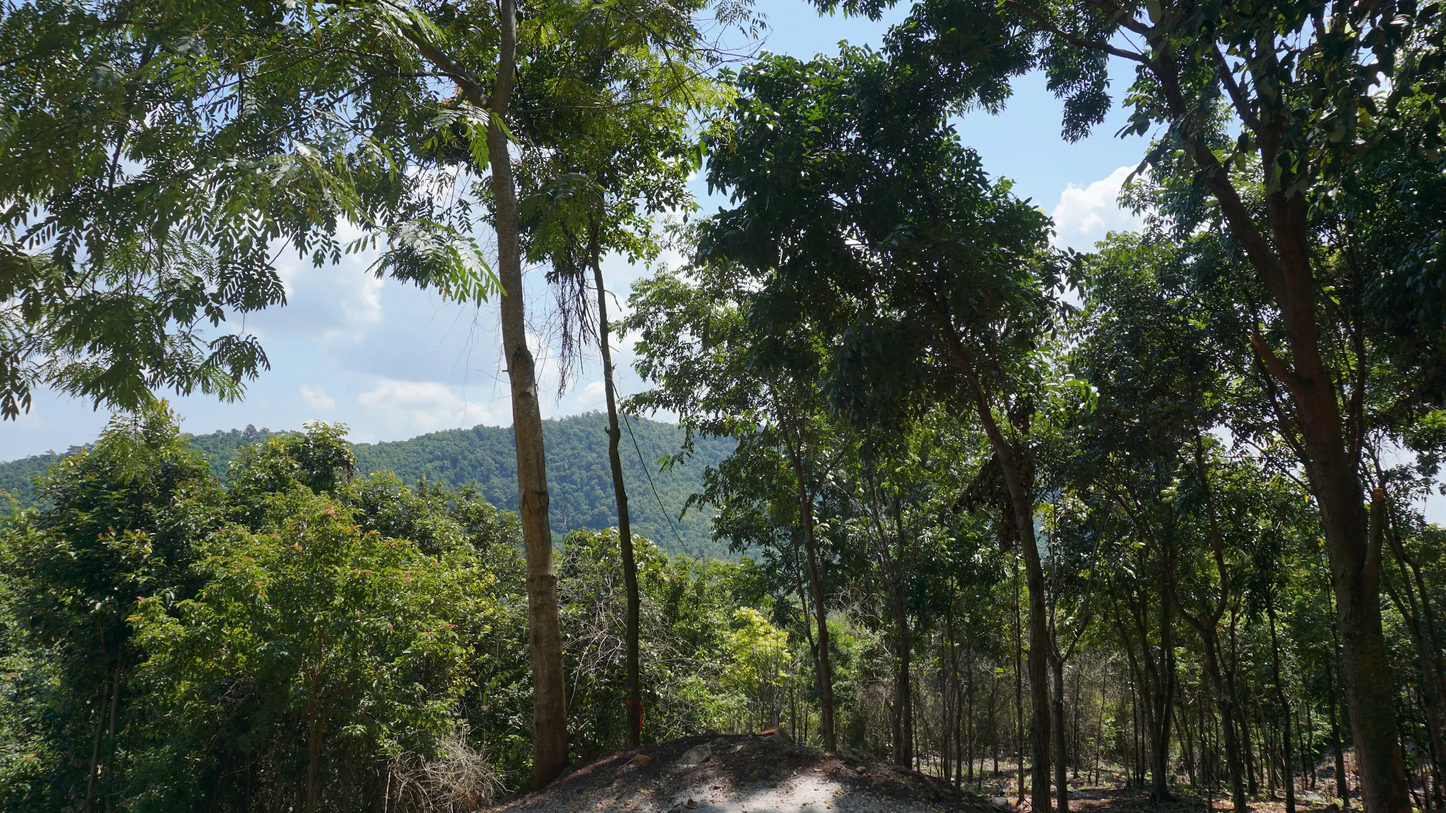
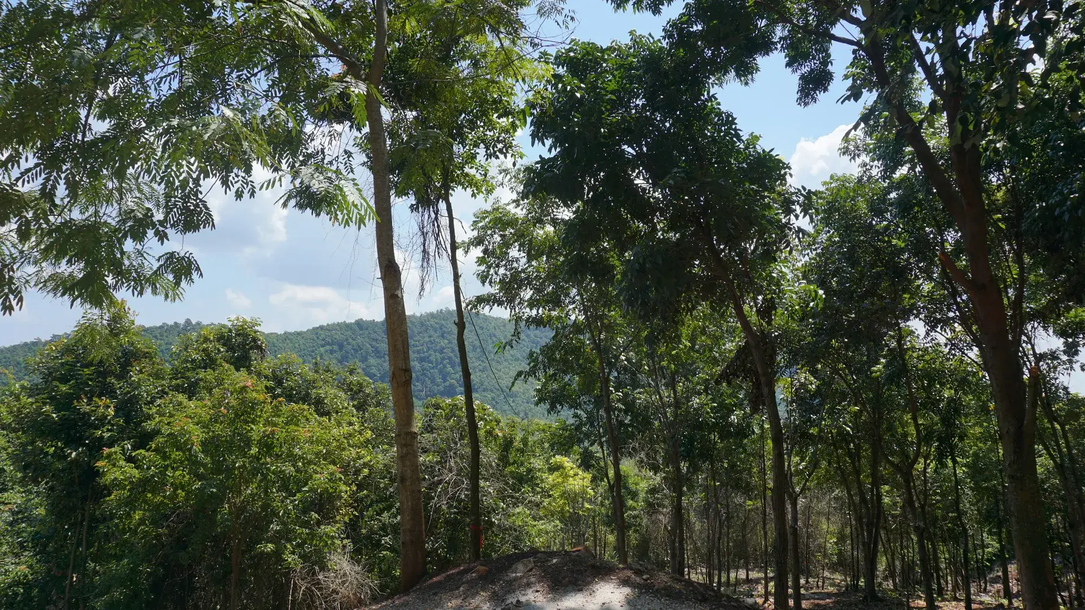
perbaikan performa

diff --git a/components/BackgroundSlideshow.vue b/components/BackgroundSlideshow.vue
@@ -11,11 +11,34 @@ const backgrounds = [
 ]
 
 const currentIndex = ref(0)
+const loadedIndices = ref<number[]>([0])
 let timer: ReturnType<typeof setInterval> | null = null
 
+const preloadImage = (index: number) => {
+  if (loadedIndices.value.includes(index)) return
+  if (import.meta.client) {
+    const img = new Image()
+    img.src = backgrounds[index]
+    img.onload = () => {
+      if (!loadedIndices.value.includes(index)) {
+        loadedIndices.value.push(index)
+      }
+    }
+  }
+}
+
 onMounted(() => {
+  // Preload slide 2 after initial page idle
+  setTimeout(() => preloadImage(1), 2500)
+
   timer = setInterval(() => {
-    currentIndex.value = (currentIndex.value + 1) % backgrounds.length
+    const next = (currentIndex.value + 1) % backgrounds.length
+    preloadImage(next)
+    currentIndex.value = next
+
+    // Preload next upcoming slide 2.5s before it transitions
+    const upcoming = (next + 1) % backgrounds.length
+    setTimeout(() => preloadImage(upcoming), 2500)
   }, 6000)
 })
 
@@ -34,7 +57,7 @@ onUnmounted(() => {
       v-for="(bg, idx) in backgrounds"
       :key="bg"
       class="absolute inset-0 bg-cover bg-center transition-opacity duration-1000 ease-in-out scale-105"
-      :style="{ backgroundImage: `url(${bg})` }"
+      :style="loadedIndices.includes(idx) ? { backgroundImage: `url(${bg})` } : undefined"
       :class="idx === currentIndex ? 'opacity-100' : 'opacity-0'"
     />
 

diff --git a/server/utils/drive.ts b/server/utils/drive.ts
@@ -186,14 +186,14 @@ async function queryGoogleDriveFolder(
       const isVideo = f.mimeType?.includes('video')
       const mediaType: 'photo' | 'video' = isVideo ? 'video' : 'photo'
 
-      // High-res Google thumbnail replacement
+      // Responsive grid thumbnail (s400 is optimal for ~200-300px cards, saving ~75% payload)
       let thumb = f.thumbnailLink || ''
       if (thumb && thumb.includes('=s')) {
-        thumb = thumb.replace(/=s\d+/, '=s800')
+        thumb = thumb.replace(/=s\d+/, '=s400')
       } else if (thumb) {
-        thumb = `${thumb}=s800`
+        thumb = `${thumb}=s400`
       } else {
-        thumb = `https://lh3.googleusercontent.com/d/${f.id}=s800`
+        thumb = `https://lh3.googleusercontent.com/d/${f.id}=s400`
       }
 
       // High quality preview (videos stream natively via /api/drive/video/:id)

diff --git a/pages/index.vue b/pages/index.vue
@@ -260,6 +260,8 @@ const openLightbox = (index: number) => openMediaLightbox(recentPhotos.value?.it
             :src="photo.thumbnailUrl"
             :alt="photo.title || photo.name"
             loading="lazy"
+            width="400"
+            height="300"
             class="w-full h-full object-cover group-hover:scale-105 transition-transform duration-500 ease-out"
           >
 

diff --git a/pages/gallery.vue b/pages/gallery.vue
@@ -293,6 +293,8 @@ const displayedPages = computed<(number | string)[]>(() => {
             :src="item.thumbnailUrl"
             :alt="item.title || item.name"
             loading="lazy"
+            width="400"
+            height="300"
             class="w-full h-full object-cover group-hover:scale-105 transition-transform duration-500 ease-out"
           >
 

diff --git a/README.md b/README.md
@@ -16,8 +16,7 @@
 
   <p>
     <a href="#ringkasan">Ringkasan</a> •
-    <a href="#fitur-utama">Fitur Utama</a> •
-    <a href="#struktur-halaman">Struktur Halaman</a> •
+    <a href="#tech-stack">Tech Stack</a> •
     <a href="#lisensi">Lisensi</a>
   </p>
 </div>
@@ -32,22 +31,22 @@ Website ini dirancang agar seluruh dokumentasi foto dan rekaman video dari berba
 
 ---
 
-## Fitur Utama
+## Tech Stack
 
-- **Galeri Foto & Video Terpadu**: Menampilkan seluruh koleksi dokumentasi foto dan rekaman video dalam satu halaman galeri dengan filter tipe media (*Semua*, *Foto*, dan *Video*).
-- **Pengelompokan Album Kegiatan**: Mengorganisir dokumentasi berdasarkan nama dan tanggal agenda perjalanan sehingga anggota dapat menelusuri arsip per kegiatan dengan mudah.
-- **Pencarian & Pengurutan**: Dilengkapi fitur pencarian berkas secara langsung serta pengurutan berdasarkan waktu (*Terbaru*, *Terlama*) maupun abjad (*Nama A-Z*, *Nama Z-A*).
-- **Peninjau Media Layar Penuh**: Mendukung peninjauan foto resolusi penuh dengan kontrol perbesaran, rotasi, pemutaran video langsung, serta tombol unduh berkas asli.
-- **Dukungan Tema Gelap & Terang**: Antarmuka responsif dengan pilihan mode tampilan gelap dan terang yang menyesuaikan kenyamanan membaca di berbagai kondisi layar.
+<div align="center">
+  <img src="https://skillicons.dev/icons?i=nuxtjs,vue,tailwind,ts,cloudflare,googlecloud,git" alt="Tech Stack Icons" />
+  <br/><br/>
+</div>
 
----
-
-## Struktur Halaman
-
-| Halaman | Rute | Deskripsi |
-| :--- | :--- | :--- |
-| **Beranda** | `/` | Menampilkan ringkasan profil komunitas, jumlah total arsip dokumentasi, pintasan kategori galeri, serta cuplikan dokumentasi terbaru. |
-| **Galeri Dokumentasi** | `/gallery` | Halaman penelusuran utama untuk seluruh arsip foto dan video lengkap dengan filter tipe media, daftar album kegiatan, pencarian, dan pengurutan. |
+| Technology | Role |
+| :--- | :--- |
+| ![Nuxt 3](https://img.shields.io/badge/-Nuxt%203-00DC82?style=flat-square&logo=nuxtdotjs&logoColor=white) | Core Web Framework (SSR + Prerender) |
+| ![Vue 3](https://img.shields.io/badge/-Vue%203-4FC08D?style=flat-square&logo=vuedotjs&logoColor=white) | Progressive Reactive Frontend Engine |
+| ![Tailwind CSS](https://img.shields.io/badge/-Tailwind%20CSS-06B6D4?style=flat-square&logo=tailwindcss&logoColor=white) | Modern Styling & Design Tokens |
+| ![DaisyUI](https://img.shields.io/badge/-DaisyUI-5A0EF8?style=flat-square&logo=daisyui&logoColor=white) | Semantic Tailwind Component Library |
+| ![TypeScript](https://img.shields.io/badge/-TypeScript-3178C6?style=flat-square&logo=typescript&logoColor=white) | Type Safety & Client/Server Contracts |
+| ![Cloudflare Pages](https://img.shields.io/badge/-Cloudflare%20Pages-F38020?style=flat-square&logo=cloudflare&logoColor=white) | Edge CDN & Cloud Deployment Platform |
+| ![Google Drive](https://img.shields.io/badge/-Google%20Drive-4285F4?style=flat-square&logo=googledrive&logoColor=white) | Headless Media Storage & Archival API |
 
 ---
 
